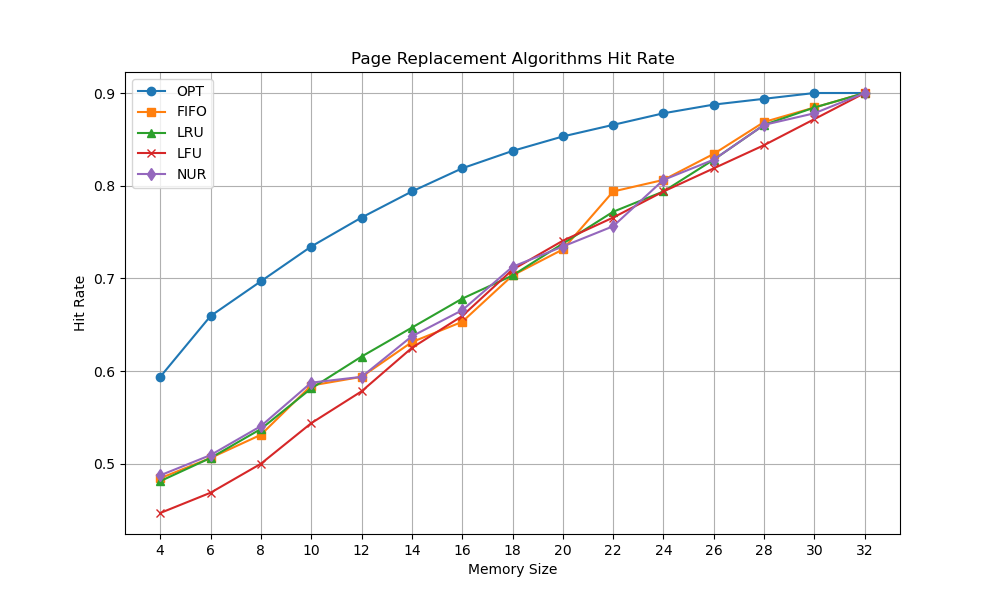
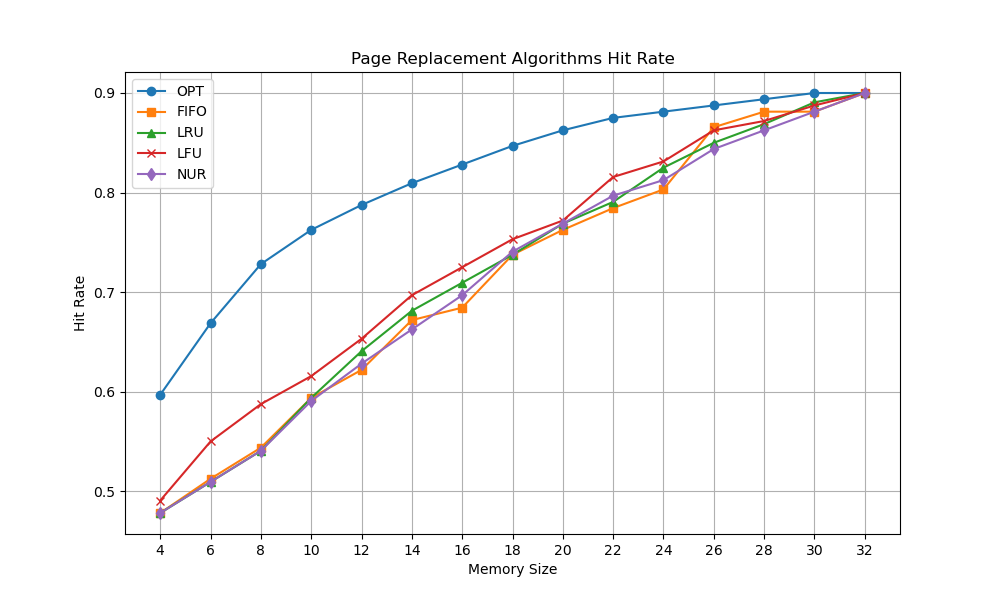
新运行结果

diff --git a/OS/Exp4/plot_result.py b/OS/Exp4/plot_result.py
@@ -1,11 +1,11 @@
 import matplotlib.pyplot as plt
 
 x = [4,6,8,10,12,14,16,18,20,22,24,26,28,30,32]
-opt = [0.59375,0.659375,0.696875,0.734375,0.765625,0.79375,0.81875,0.8375,0.853125,0.865625,0.878125,0.8875,0.89375,0.9,0.9]
-fifo = [0.484375,0.50625,0.53125,0.584375,0.59375,0.63125,0.653125,0.703125,0.73125,0.79375,0.80625,0.834375,0.86875,0.884375,0.9]
-lru = [0.48125,0.50625,0.5375,0.58125,0.615625,0.646875,0.678125,0.703125,0.7375,0.771875,0.79375,0.828125,0.865625,0.884375,0.9]
-lfu = [0.446875,0.46875,0.5,0.54375,0.578125,0.625,0.659375,0.709375,0.740625,0.765625,0.79375,0.81875,0.84375,0.871875,0.9]
-nur = [0.4875,0.509375,0.540625,0.5875,0.59375,0.6375,0.665625,0.7125,0.734375,0.75625,0.80625,0.828125,0.865625,0.878125,0.9]
+opt = [0.596875,0.66875,0.728125,0.7625,0.7875,0.809375,0.828125,0.846875,0.8625,0.875,0.88125,0.8875,0.89375,0.9,0.9]
+fifo = [0.478125,0.5125,0.54375,0.59375,0.621875,0.671875,0.684375,0.7375,0.7625,0.784375,0.803125,0.865625,0.88125,0.88125,0.9]
+lru = [0.478125,0.509375,0.540625,0.59375,0.640625,0.68125,0.709375,0.7375,0.76875,0.790625,0.825,0.85,0.86875,0.890625,0.9]
+lfu = [0.490625,0.55,0.5875,0.615625,0.653125,0.696875,0.725,0.753125,0.771875,0.815625,0.83125,0.8625,0.871875,0.8875,0.9]
+nur = [0.478125,0.509375,0.540625,0.590625,0.628125,0.6625,0.696875,0.740625,0.76875,0.796875,0.8125,0.84375,0.8625,0.88125,0.9]
 plt.figure(figsize=(10, 6))
 plt.plot(x, opt, 'o-', label='OPT')
 plt.plot(x, fifo, 's-', label='FIFO')
